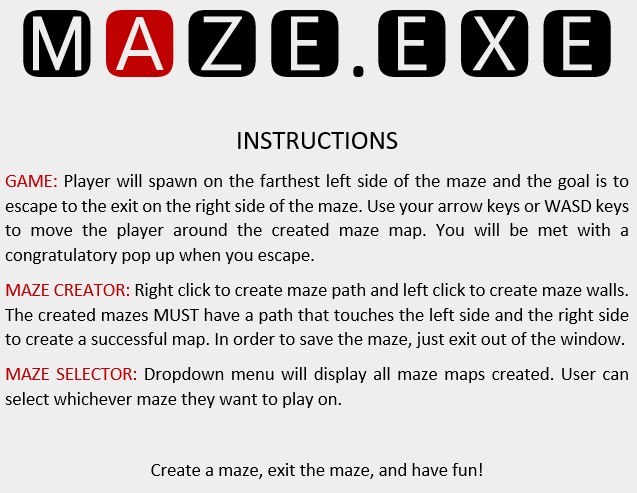
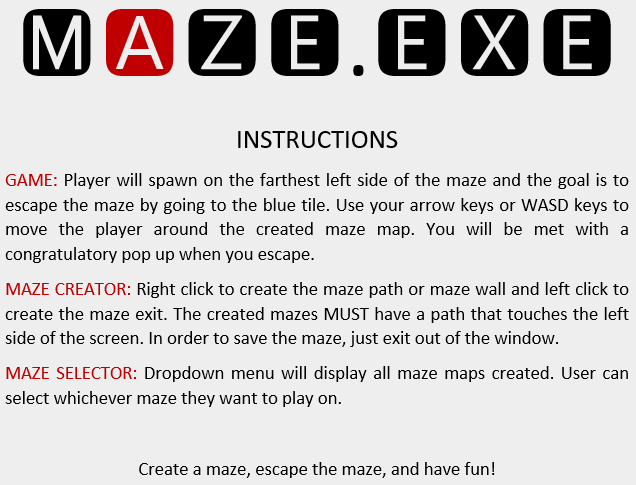
Add files via upload

diff --git a/Maze.java b/Maze.java
@@ -13,11 +13,12 @@ import javax.swing.JFrame;
 import javax.swing.JOptionPane;
 
 public class Maze extends JFrame{
-    public static int rows = 20;
-    public static int columns = 20;
+    public final static int rows = 20;
+    public final static int columns = 20;
     public static int panelSize = 25;
     public static int map[][] = new int[columns][rows];
-    public static int endMazeLoc;
+    public static int endMazeX;
+    public static int endMazeY;
     Player p;
     
     static String loadURL = "loading.gif";
@@ -38,7 +39,7 @@ public class Maze extends JFrame{
                 revalidate();
                 repaint();
 
-                //Player movement
+                // Player movement (WASD and arrow keys)
                 if(key == KeyEvent.VK_W || key == KeyEvent.VK_UP){
                     p.moveUp();
                 }
@@ -52,7 +53,7 @@ public class Maze extends JFrame{
                     p.moveRight();
                 }
 
-                if(p.x == columns-1 && p.y == endMazeLoc){
+                if(p.x == endMazeX && p.y == endMazeY){ // checking for that one green exit tile
                     JOptionPane.showMessageDialog(null, "Congratulations! You escaped the maze!", "End Game", JOptionPane.INFORMATION_MESSAGE);
                     dispose();
                     new MainMenu();
@@ -62,13 +63,11 @@ public class Maze extends JFrame{
             @Override
             public void keyReleased(KeyEvent arg0) {
                 // TODO Auto-generated method stub
-
             }
 
             @Override
             public void keyTyped(KeyEvent arg0) {
                 // TODO Auto-generated method stub
-
             }
 
         });
@@ -76,36 +75,40 @@ public class Maze extends JFrame{
         this.addWindowListener(new WindowAdapter(){
             @Override
             public void windowClosing(WindowEvent e) {
-                //System.out.println((columns*panelSize)+50+"-"+((rows*panelSize)+70));
                 System.exit(0);
             }
         });
 
         this.setLocationRelativeTo(null);
 
-        //Create player
+        // Create player
         p = new Player();
         p.setVisible(true);
         this.add(p);
 
-        //Color map
+        // Color map
         for(int y = 0; y < columns; y++){
             for(int x = 0; x < rows; x++){
                 Tile tile = new Tile(x, y);
                 tile.setSize(panelSize, panelSize);
                 tile.setLocation((x*panelSize)+23, (y*panelSize)+25);
-                if(map[x][y] == 0){
-                    tile.setBackground(Color.GRAY);
-                }else{
-                    tile.setBackground(Color.WHITE);
-                    tile.setWall(false);
-                    if(x == 0){
-                        p.setLocation((x*panelSize)+23, (y*panelSize)+25);
-                        p.y = y;
-                    }
-                    if(x == columns-1){
-                        endMazeLoc = y;
-                    }
+                switch (map[x][y]) {
+                    case 0: // wall tile
+                        tile.setBackground(Color.GRAY);
+                        break;
+                    case 2: // maze end tile
+                        tile.setBackground(Color.GREEN);
+                        tile.setWall(false);
+                        endMazeX = x;
+                        endMazeY = y;
+                        break;
+                    default: // path tile
+                        tile.setBackground(Color.WHITE);
+                        tile.setWall(false);
+                        if(x == 0){
+                            p.setLocation((x*panelSize)+23, (y*panelSize)+25);
+                            p.y = y;
+                        } break;
                 }
 
                 tile.setVisible(true);

diff --git a/MainMenu.java b/MainMenu.java
@@ -26,44 +26,43 @@ public class MainMenu {
     ImageIcon picture = new ImageIcon(this.getClass().getResource(introURL));
     JLabel imageLabel = new JLabel(picture);
     ArrayList<String> mapList;
-    JComboBox<String> lvlList;
-    int menuWidth = 150; //Width of each button/item on display
-    int menuHeight = 50;//Height of each button/item on display
-    int menuY = 700; //Button/item location on display
+    JComboBox<String> numList;
+    
+    int buttonWidth = 150; // Width of each button
+    int buttonHeight = 50;// Height of each button
+    int menuY = 700; // Button location
     int WIDTH = 800;
     int HEIGHT = 800;
 
     public MainMenu() {
         this.mapList = new ArrayList<>();
-        //Load map list
+        // Load map list
         getMapList();
-        lvlList = new JComboBox<>(mapList.toArray(new String[mapList.size()]));
+        numList = new JComboBox<>(mapList.toArray(new String[mapList.size()]));
 
-        //Menu Variables
+        // Menu Variables
         Menu.setResizable(false);
         Menu.setSize(WIDTH, HEIGHT);
         Menu.setLayout(null);
         Menu.setLocationRelativeTo(null);
         Menu.setDefaultCloseOperation(JFrame.EXIT_ON_CLOSE);
         
-        
-
-        //Start Button Variables
-        Start.setSize(menuWidth,menuHeight);
+        // Start Button
+        Start.setSize(buttonWidth,buttonHeight);
         Start.setLocation(40, menuY);
         Menu.add(Start);
         Start.addActionListener(new ActionListener(){
 
             @Override
             public void actionPerformed(ActionEvent arg0) {
-                new Maze(lvlList.getSelectedItem().toString());
+                new Maze(numList.getSelectedItem().toString());
                 Menu.setVisible(false);
             }
 
         });
 
-        //Maze Creator Button Variables
-        MazeCreator.setSize(menuWidth,menuHeight);
+        // Maze Creator Button
+        MazeCreator.setSize(buttonWidth,buttonHeight);
         MazeCreator.setLocation(215, menuY);
         Menu.add(MazeCreator);
         MazeCreator.addActionListener(new ActionListener(){
@@ -76,13 +75,13 @@ public class MainMenu {
 
         });
 
-        //Maze Selector
-        lvlList.setSize(menuWidth+35, menuHeight);
-        lvlList.setLocation(390, menuY);
-        Menu.add(lvlList);
+        // Maze Selector
+        numList.setSize(buttonWidth+35, buttonHeight);
+        numList.setLocation(390, menuY);
+        Menu.add(numList);
 
-        //Exit Button Variables
-        Exit.setSize(menuWidth,menuHeight);
+        // Exit Button
+        Exit.setSize(buttonWidth,buttonHeight);
         Exit.setLocation(610,menuY);
         Menu.add(Exit);
         Exit.addActionListener(new ActionListener(){
@@ -93,7 +92,7 @@ public class MainMenu {
             }
         });
         
-        //Display Picture
+        // Display Picture
         imageLabel.setBounds((WIDTH-700)/2, 80, 700, 550);
         imageLabel.setVisible(true);
         Menu.add(imageLabel);

diff --git a/MazeCreator.java b/MazeCreator.java
@@ -16,13 +16,14 @@ import javax.swing.JFrame;
 import javax.swing.JOptionPane;
 
 public class MazeCreator extends JFrame{
-    static int rows = 20;
-    static int columns = 20;
+    final static int rows = 20;
+    final static int columns = 20;
     int panelSize = 25;
     static int map[][] = new int[columns][rows];
     ArrayList<String> mapList;
     int mazeNum = 0;
     boolean mazeNumExistAlready = false;
+    static boolean exitMade = false; // make sure only one exit is made 
 
     public MazeCreator(){
         this.mapList = new ArrayList<>();
@@ -49,10 +50,16 @@ public class MazeCreator extends JFrame{
                     MazeTile tile = new MazeTile(x, y);
                     tile.setSize(panelSize-1, panelSize-1);
                     tile.setLocation((x*panelSize)+23, (y*panelSize)+25);
-                    if(map[x][y] == 0){
-                        tile.setBackground(Color.GRAY);
-                    }else{
-                        tile.setBackground(Color.WHITE);
+                    switch (map[x][y]) {
+                        case 2:
+                            tile.setBackground(Color.GREEN);
+                            break;
+                        case 1:
+                            tile.setBackground(Color.WHITE);
+                            break;
+                        default:
+                            tile.setBackground(Color.GRAY);
+                            break;
                     }
 
                     tile.setVisible(true);
@@ -128,11 +135,9 @@ public class MazeCreator extends JFrame{
                 for(int x = 0; x < rows; x++){
                     String mapChar = mapStr.substring(counter, counter+1);
                     if(!mapChar.equals("\r\n") && !mapChar.equals("\n")&& !mapChar.equals("\r")){//If it's a number
-                        //System.out.print(mapChar);
                         map[x][y] = Integer.parseInt(mapChar);
                     }else{//If it is a line break
                         x--;
-                        //System.out.print(mapChar);
                     }
                     counter++;
                 }

diff --git a/MazeTile.java b/MazeTile.java
@@ -16,13 +16,39 @@ public class MazeTile extends JPanel{
         addMouseListener(new MouseAdapter(){
             @Override
             public void mousePressed(MouseEvent e) {
-                if(e.getButton() == MouseEvent.BUTTON1){
-                    setBackground(Color.WHITE);
-                    MazeCreator.map[x][y] = 1;
+                if(e.getButton() == MouseEvent.BUTTON1){ // right click for path/wall tile only
+                    switch (MazeCreator.map[x][y]) {
+                        case 0:
+                            setBackground(Color.WHITE);
+                            MazeCreator.map[x][y] = 1;
+                            break;
+                        case 1:
+                            setBackground(Color.GRAY);
+                            MazeCreator.map[x][y] = 0;
+                            break;
+                        case 2:
+                            setBackground(Color.WHITE);
+                            MazeCreator.map[x][y] = 1;
+                            MazeCreator.exitMade = false;
+                            break;
+                        default:
+                            setBackground(Color.WHITE);
+                            MazeCreator.map[x][y] = 1;
+                            break;
+                    }
                 }
-                if(e.getButton() == MouseEvent.BUTTON3){
-                    setBackground(Color.GRAY);
-                    MazeCreator.map[x][y] = 0;
+                if(e.getButton() == MouseEvent.BUTTON3){ // left click for exit tile (only 1 is made)
+                    if(MazeCreator.exitMade){
+                        if(MazeCreator.map[x][y] == 2){
+                            setBackground(Color.WHITE);
+                            MazeCreator.map[x][y] = 1;
+                            MazeCreator.exitMade = false;
+                        }
+                    }else{
+                        setBackground(Color.GREEN);
+                        MazeCreator.map[x][y] = 2;
+                        MazeCreator.exitMade = true;
+                    }
                 }
             }
         });

diff --git a/Player.java b/Player.java
@@ -7,33 +7,38 @@ public class Player extends JPanel{
     int x, y;
 
     public Player() {
-        this.setBackground(Color.getHSBColor(0.3f, 0.3f, 1));
+        this.setBackground(Color.BLUE); // player will be a blue square
         this.setSize(Maze.panelSize, Maze.panelSize);
     }
+    
+    /*
+    player can only move on tiles that are represented 
+    by 1 (path tile) and 2 (exit tile) only
+    */
 
     public void moveLeft() {
-        if(x > 0 && Maze.map[x-1][y] == 1){
+        if(x > 0 && (Maze.map[x-1][y] == 1 || Maze.map[x-1][y] == 2)){
             this.setLocation(this.getX()-25, this.getY());
             x--;
         }
     }
 
     public void moveRight() {
-        if(x < Maze.columns-1 && Maze.map[x+1][y] == 1){
+        if(x < Maze.columns-1 && (Maze.map[x+1][y] == 1 || Maze.map[x+1][y] == 2)){
             this.setLocation(this.getX()+25, this.getY());
             x++;
         }
     }
 
     public void moveUp() {
-        if(y > 0 && Maze.map[x][y-1] == 1){
+        if(y > 0 && (Maze.map[x][y-1] == 1 || Maze.map[x][y-1] == 2)){
             this.setLocation(this.getX(), this.getY()-25);
             y--;
         }
     }
 
     public void moveDown() {
-        if(y < Maze.rows-1 && Maze.map[x][y+1] == 1){
+        if(y < Maze.rows-1 && (Maze.map[x][y+1] == 1 || Maze.map[x][y+1] == 2)){
             this.setLocation(this.getX(), this.getY()+25);
             y++;
         }
